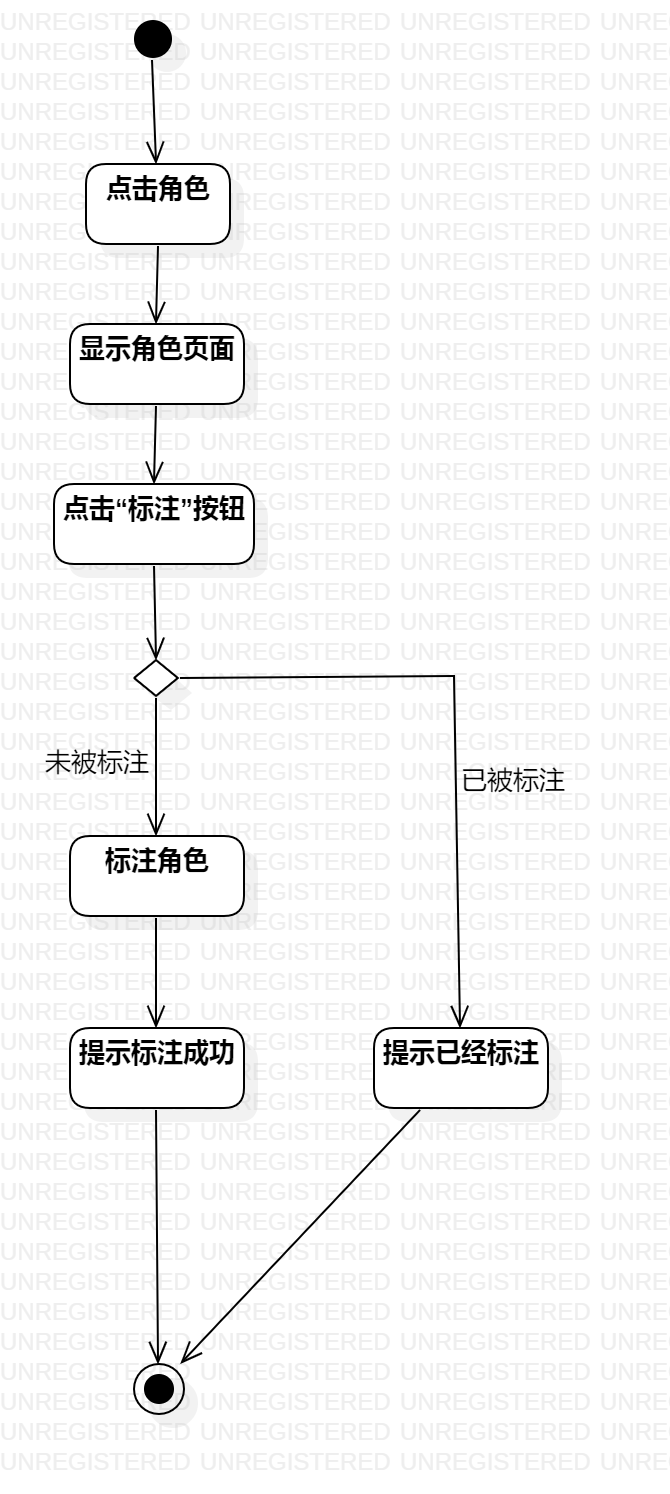
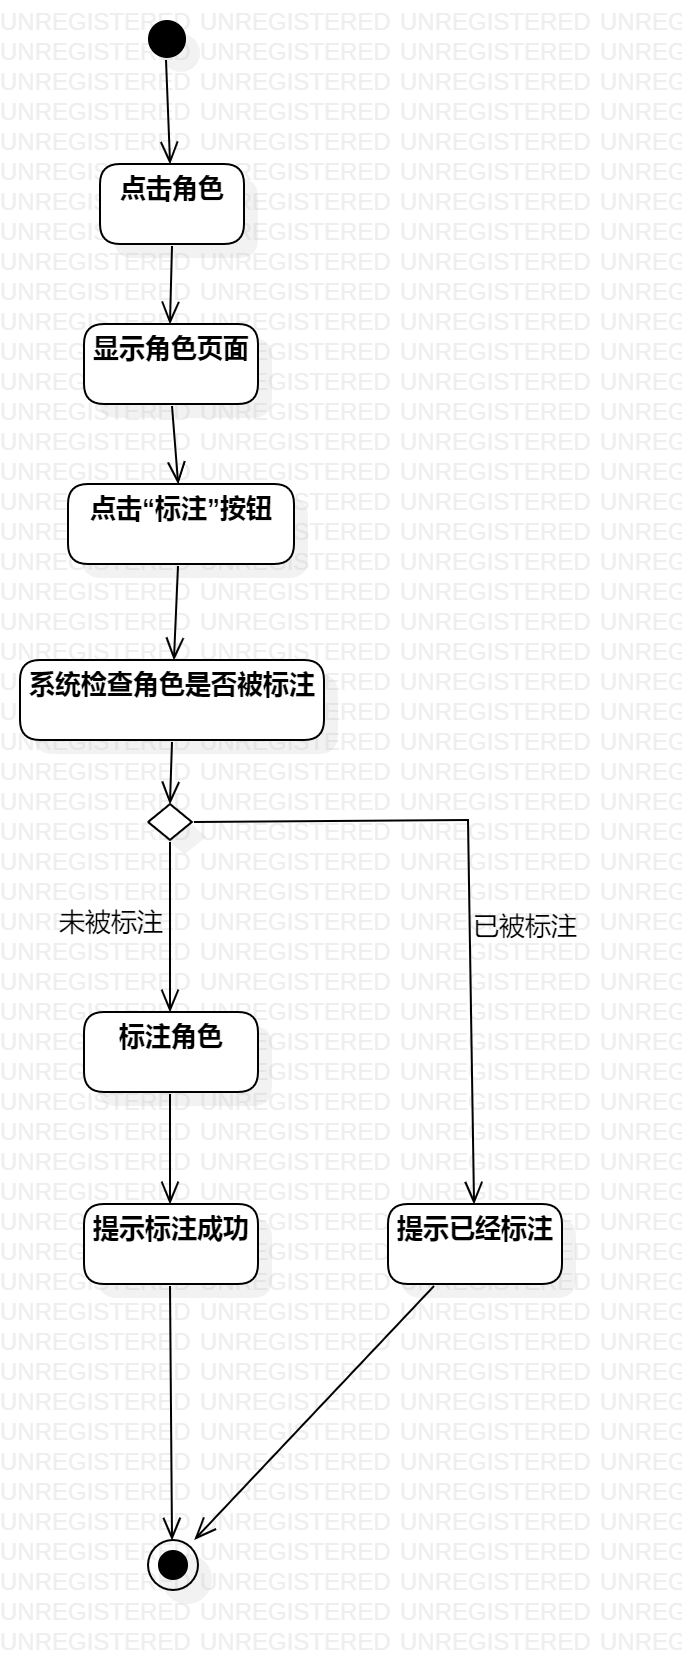
实验三修改

diff --git a/students/1714080902211/lab2.md b/students/1714080902211/lab2.md
@@ -49,9 +49,9 @@ D.浏览角色：fgo玩家浏览全部角色
 ~| 2.系统显示输入页面  |   
 ~| 3.管理员输入数据   |   
 ~| 4.管理员点击“确认上传”按钮   |   
-~| 5.系统导入数据，提示上传成功   |  
-扩展流程  | 4.1 输入不符合规范，系统提示输入错误   |*用例执行失败*    
- 
+~| 5.系统查询输入是否规范，如果规范，系统导入数据   |   
+~| 6.系统提示上传成功   |  
+扩展流程  | 5.1 系统发现输入不符合规范，系统提示输入错误   |*用例执行失败*    
 
 ## 表2：标注角色用例规约  
 
@@ -63,8 +63,9 @@ D.浏览角色：fgo玩家浏览全部角色
 基本流程  | 1.fgo玩家点击任意角色  |*用例执行成功的步骤*    
 ~| 2.系统显示该角色页面  |   
 ~| 3.fgo玩家点击“标注”按钮   |   
-~| 4.系统标注角色，提示标注成功   |    
-扩展流程  | 3.1 角色已被标注，系统提示“已经标注”  |*用例执行失败*    
+~| 4.系统查询角色是否被标注，如果未标注，系统标注角色   |    
+~| 5.系统提示标注成功   |   
+扩展流程  | 4.1 系统发现角色已被标注，系统提示“已经标注”  |*用例执行失败*    
 
 ## 表3：查询角色用例规约  
 
@@ -74,6 +75,6 @@ D.浏览角色：fgo玩家浏览全部角色
 前置条件  | fgo玩家登陆系统，进入“已有英灵”界面     | *可选*   
 后置条件  | 系统显示被查询角色的页面     | *可选*   
 基本流程  | 1.fgo玩家输入需要查询的角色名字并点击“查询”按钮  |*用例执行成功的步骤*    
-~| 2.系统查询角色信息  |    
+~| 2.系统查询输入名字是否正确，如果正确，系统查询角色信息  |    
 ~| 3.系统显示被查询角色的页面  |    
-扩展流程  | 1.1 输入名字错误或输入为空，系统提示“未拥有这名英灵”  |*用例执行失败*    
+扩展流程  | 2.1 系统发现输入名字错误或输入为空，系统提示“未拥有这名英灵”  |*用例执行失败*    
